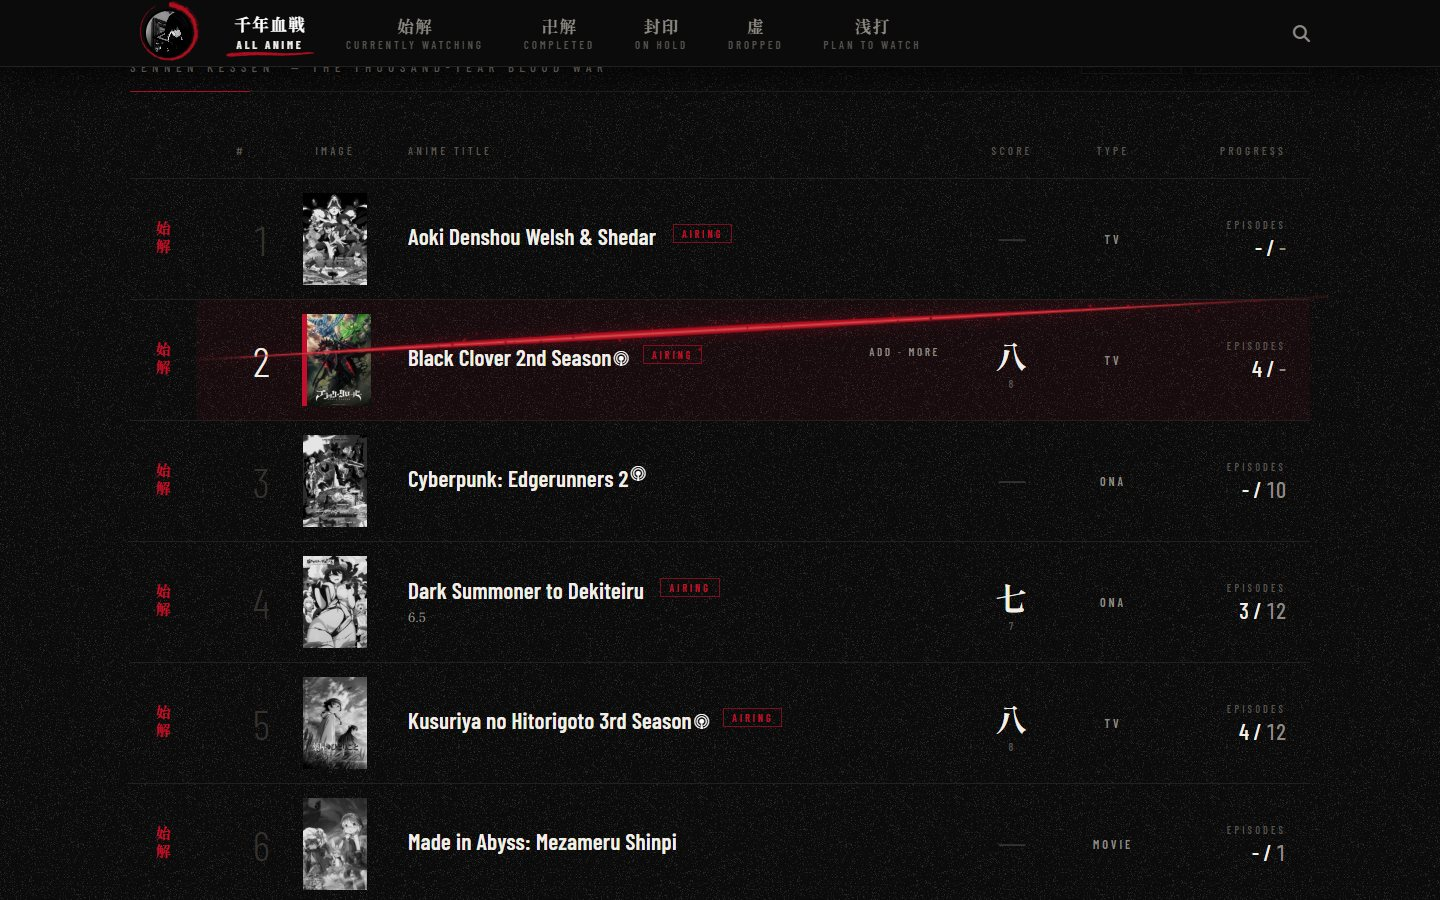
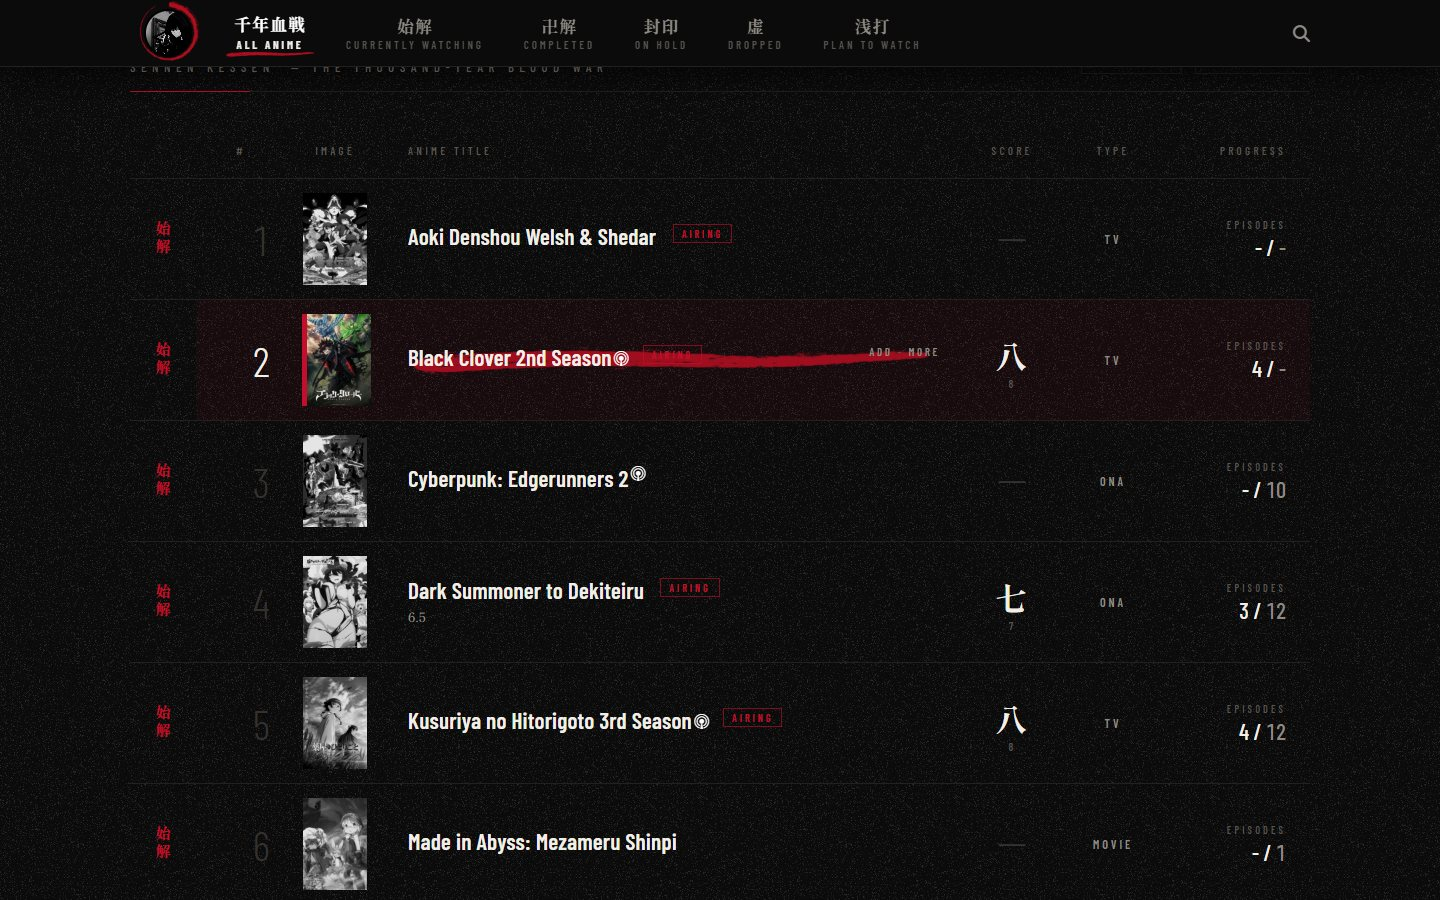
feat(bankai): remplace l'entaille du survol par un coup de pinceau sous le titre

Changed region(s): [[0.1875, 0.3422, 0.7812, 0.4356], [0.7812, 0.3111, 0.8438, 0.3422]]

diff --git a/themes/bankai/theme.css b/themes/bankai/theme.css
@@ -6,7 +6,7 @@
    « imprimée » à l'encre (noir et blanc forcés), une colonne de kanji sur un
    coup de pinceau rouge. Un coup de pinceau noir bascule dans la liste,
    noire comme un shihakusho. Seul le rouge a droit à la couleur ; les covers
-   la retrouvent au survol, quand l'entaille traverse la ligne.
+   la retrouvent au survol, quand un coup de pinceau rouge balaie le titre.
    Chaque onglet est une étape de libération du sabre (data-query) :
    All Sennen Kessen, En cours Shikai, Terminés Bankai, En pause Fuin,
    Abandonnés Hollow, Prévus Asauchi, avec son illustration et ses textes.
@@ -43,7 +43,6 @@
     --enso: url(https://cdn.jsdelivr.net/gh/pmharquet/mal-style-css@main/themes/bankai/assets/enso-red.png);
     --splatter-red: url(https://cdn.jsdelivr.net/gh/pmharquet/mal-style-css@main/themes/bankai/assets/splatter-red.png);
     --splatter-ink: url(https://cdn.jsdelivr.net/gh/pmharquet/mal-style-css@main/themes/bankai/assets/splatter-ink.png);
-    --slash: url(https://cdn.jsdelivr.net/gh/pmharquet/mal-style-css@main/themes/bankai/assets/slash-red.png);
     --brush-v: url(https://cdn.jsdelivr.net/gh/pmharquet/mal-style-css@main/themes/bankai/assets/brush-red-v.png);
     --brush-h: url(https://cdn.jsdelivr.net/gh/pmharquet/mal-style-css@main/themes/bankai/assets/brush-red-h.png);
     --hanko: url(https://cdn.jsdelivr.net/gh/pmharquet/mal-style-css@main/themes/bankai/assets/hanko-red.png);
@@ -878,7 +877,7 @@ body:has(.list-menu-float) {
     transform: translateX(calc(4 * var(--ui)));
 }
 
-/* Titre + entaille */
+/* Titre + coup de pinceau au survol */
 .list-table .list-table-data .data.title {
     position: relative;
     padding-left: calc(24 * var(--ui));
@@ -897,29 +896,29 @@ body:has(.list-menu-float) {
     text-decoration: none;
 }
 
-/* (la cellule titre porte .clearfix : son ::after est masqué par MAL) */
+/* Survol : un coup de pinceau rouge se trace derrière le titre, dans sa cellule
+   (donc sans déborder sur les lignes voisines). Il est porté par la cellule et
+   non par le lien : la coupe à 2 lignes du titre empêche Chrome d'y dessiner un
+   pseudo-élément. La cellule porte .clearfix, dont MAL masque le ::after. */
 .list-table .list-table-data .data.title::after {
     content: "";
     visibility: visible;
     position: absolute;
     top: 50%;
-    left: calc(-190 * var(--ui));
-    right: calc(-380 * var(--ui));
+    left: calc(10 * var(--ui));
     z-index: 2;
-    height: calc(44 * var(--ui));
-    margin-top: calc(-22 * var(--ui));
-    background: var(--slash) center / 100% 100% no-repeat;
-    filter: drop-shadow(0 0 6px var(--red-glow));
-    opacity: 0;
-    transform: rotate(-3.2deg) scaleX(0);
-    transform-origin: left center;
+    width: min(calc(100% - 20 * var(--ui)), calc(560 * var(--ui)));
+    height: calc(58 * var(--ui));
+    margin-top: calc(-29 * var(--ui));
+    background: var(--brush-h) left center / 100% 100% no-repeat;
+    opacity: .88;
+    clip-path: inset(0 100% 0 0);
+    transition: clip-path .36s cubic-bezier(.7, 0, .2, 1);
     pointer-events: none;
-    transition: transform .34s cubic-bezier(.8, 0, .2, 1), opacity .1s;
 }
 
 .list-table tbody.list-item:hover .data.title::after {
-    opacity: 1;
-    transform: rotate(-3.2deg) scaleX(1);
+    clip-path: inset(0 0 0 0);
 }
 
 .list-table .list-table-data .data.title .content-status {
@@ -1297,7 +1296,7 @@ body:has(.list-menu-float) {
         width: calc(150 * var(--ui));
     }
 
-    /* L'entaille du survol ne doit pas élargir la page */
+    /* Rien dans la liste ne doit élargir la page */
     .list-block {
         overflow-x: clip;
     }
@@ -1354,13 +1353,9 @@ body:has(.list-menu-float) {
         white-space: nowrap;
     }
 
-    /* Liste : sans le numéro fantôme ; l'entaille part de la cover */
+    /* Liste : sans le numéro fantôme */
     .list-table .list-table-header .header-title.number,
     .list-table .list-table-data .data.number {
         display: none;
-    }
-
-    .list-table .list-table-data .data.title::after {
-        left: calc(-110 * var(--ui));
     }
 }

diff --git a/themes/bankai/src/generate_assets.py b/themes/bankai/src/generate_assets.py
@@ -236,32 +236,6 @@ def splatter(name, color, seed):
     save(colorize(roughen(im, 0.45, seed=seed), color), name)
 
 
-def slash():
-    """Entaille de sabre : fine lentille rouge, cœur clair, éclats."""
-    w, h = 2000, 64
-    ss = 3
-    im = Image.new("RGBA", (w * ss, h * ss), (0, 0, 0, 0))
-    d = ImageDraw.Draw(im)
-    cy = h * ss / 2
-    top, bot = [], []
-    for i in range(201):
-        t = i / 200
-        thick = (math.sin(math.pi * t ** 0.8) ** 1.6) * 7 * ss
-        x = t * w * ss
-        top.append((x, cy - thick))
-        bot.append((x, cy + thick * 0.55))
-    d.polygon(top + bot[::-1], fill=RED + (255,))
-    core = [(x, cy - (cy - y) * 0.35) for x, y in top] + [(x, cy) for x, _ in bot[::-1]]
-    d.polygon(core, fill=(255, 92, 92, 200))
-    for _ in range(60):
-        x = rng.uniform(0.15, 0.95) * w * ss
-        y = cy + rng.normal(0, 9) * ss
-        rr = rng.uniform(0.6, 2.4) * ss
-        d.ellipse([x - rr, y - rr, x + rr, y + rr], fill=RED + (int(rng.uniform(120, 255)),))
-    im = im.filter(ImageFilter.GaussianBlur(ss * 0.35)).resize((w, h), Image.LANCZOS)
-    save(im, "slash-red.png")
-
-
 def brush_vertical():
     w, h = 380, 1500
     pts = [(200, 30), (185, 400), (205, 800), (190, 1150), (210, 1470)]
@@ -302,7 +276,6 @@ if __name__ == "__main__":
     enso()
     splatter("splatter-red.png", RED, 51)
     splatter("splatter-ink.png", INK, 52)
-    slash()
     brush_vertical()
     brush_underline()
     hanko()

diff --git a/docs/DIRECTION-ARTISTIQUE.md b/docs/DIRECTION-ARTISTIQUE.md
@@ -53,7 +53,7 @@ Noir, violet impérial, rouge Geass, or britannien. Zero / Lelouch en grand à g
 Thème clair. Paysage aquarelle qui se fond dans un papier vergé ; **cercle magique doré** multi-anneaux qui tourne lentement derrière l'avatar, particules de lumière. Onglets = étapes sur un chemin de carte en pointillés. Liste = carnet de voyage : filets dorés, covers montées comme des photos collées, note = **fleurs bleues** (jauge de fleurs selon la note). Saison différente par onglet (printemps en cours, automne doré pour les terminés, hiver en pause…).
 
 ### BANKAI — Bleach : Thousand-Year Blood War
-Noir et blanc tranché, rouge sang. Composition cinéma : immense kanji vertical 卍解, éclaboussures d'encre, Ichigo en monochrome. Covers en noir et blanc qui reprennent leur couleur au survol, avec une **entaille rouge** qui traverse la ligne. Onglets = divisions du Gotei 13 en chiffres kanji. Titres de section façon cartons d'épisode de TYBW.
+Noir et blanc tranché, rouge sang. Composition cinéma : immense kanji vertical 卍解, éclaboussures d'encre, Ichigo en monochrome. Covers en noir et blanc qui reprennent leur couleur au survol, avec un **coup de pinceau rouge** qui se trace sous le titre. Onglets = divisions du Gotei 13 en chiffres kanji. Titres de section façon cartons d'épisode de TYBW.
 
 ### NAZARICK — Overlord
 Salle du trône du Grand Tombeau : obsidienne, pourpre, or. Ainz sur son trône au centre de la bannière, cadres gothiques dorés. Liste = registre des Gardiens d'étage : plaques gravées, gemme de statut, note en **chiffres romains**. Chaque onglet = un étage, avec son gardien (Albedo, Shalltear, Demiurge, Cocytus, Aura & Mare).

diff --git a/README.md b/README.md
@@ -9,7 +9,7 @@ La démarche et l'étude des designs de référence sont dans [docs/DIRECTION-AR
 | [DIVERGENCE](themes/divergence/) | Steins;Gate | Compteur de divergence en tubes nixie animés, liste dans un moniteur CRT, note de chaque ligne dans un tube. |
 | [ZERO REQUIEM](themes/zero-requiem/) | Code Geass | Héros plein écran par onglet, onglets en rangée d'échiquier, registre des Chevaliers Noirs, sigil du Geass au survol. |
 | [JOURNEY'S END](themes/journeys-end/) | Sousou no Frieren | Thème clair : carnet de voyage aquarelle, cercle magique doré, itinéraire de carte, note en fleurs bleues. |
-| [BANKAI](themes/bankai/) | Bleach TYBW | Encre sur papier washi, kanji au pinceau, onglets = étapes de libération du sabre, entaille rouge au survol. |
+| [BANKAI](themes/bankai/) | Bleach TYBW | Encre sur papier washi, kanji au pinceau, onglets = étapes de libération du sabre, coup de pinceau rouge au survol. |
 | [NAZARICK](themes/nazarick/) | Overlord | Salle du trône du Grand Tombeau, plaques dorées, note en chiffres romains, un étage et son gardien par onglet. |
 
 Les aperçus sont dans chaque dossier (`preview-*.jpg`).
